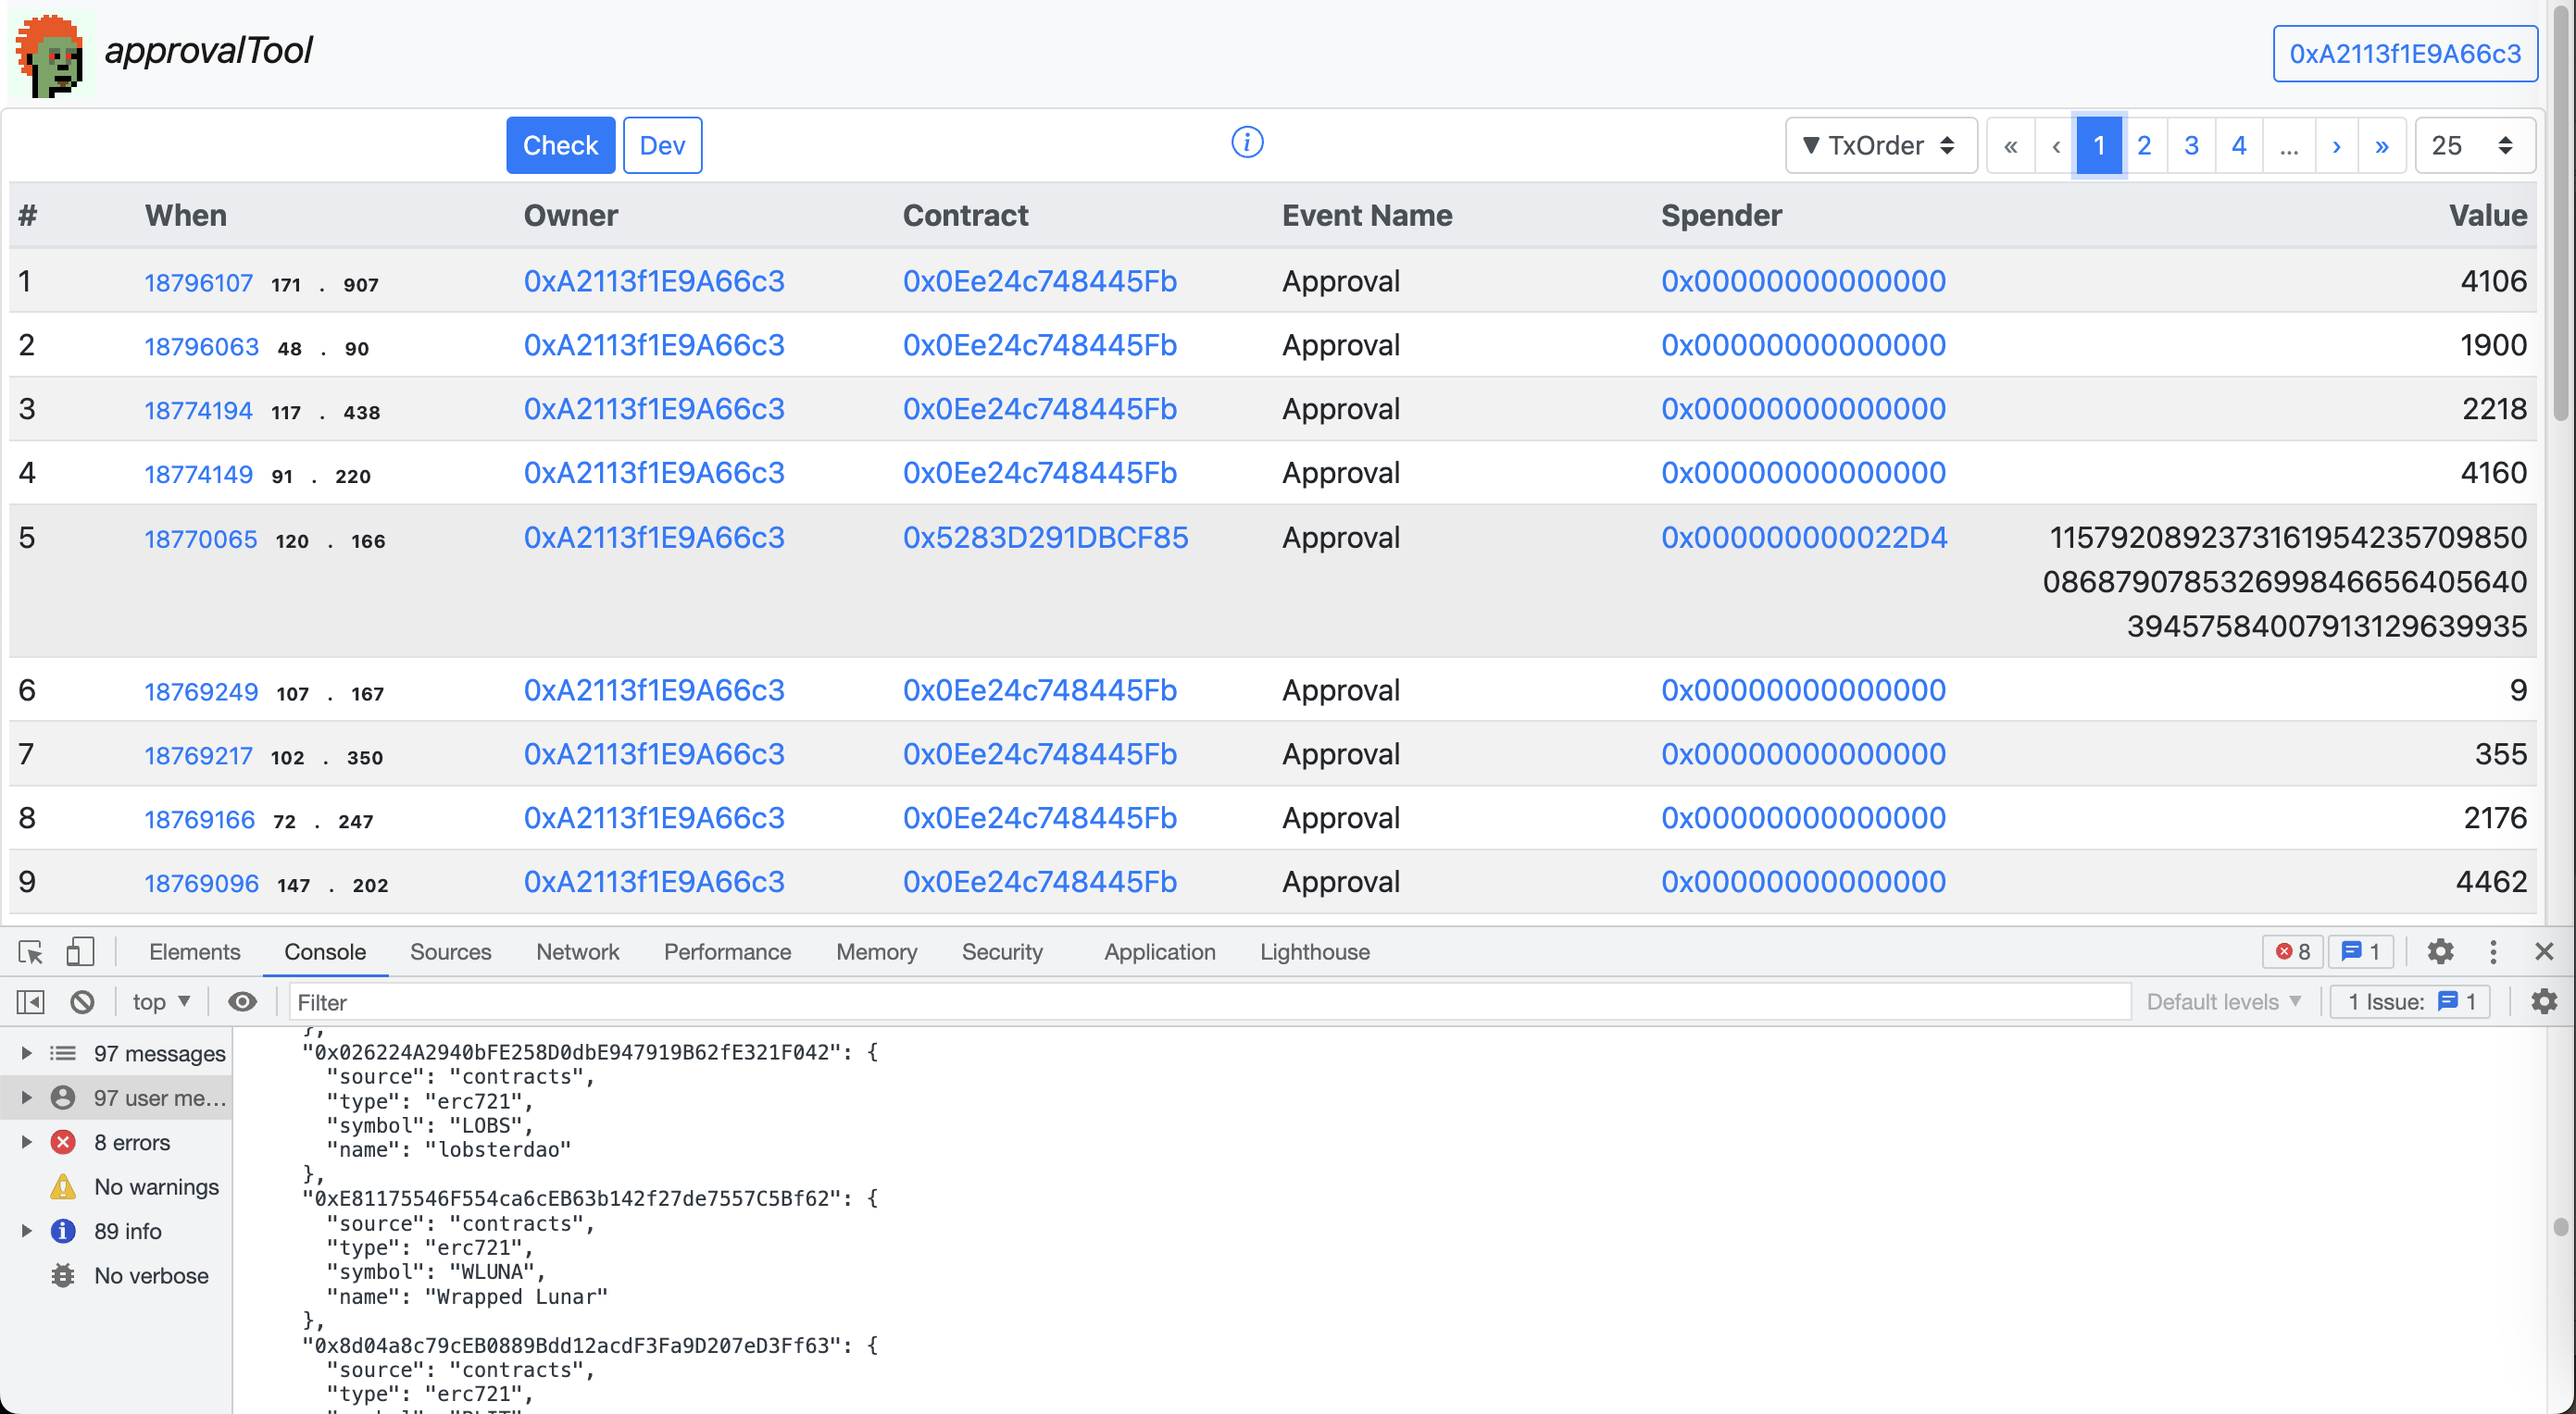
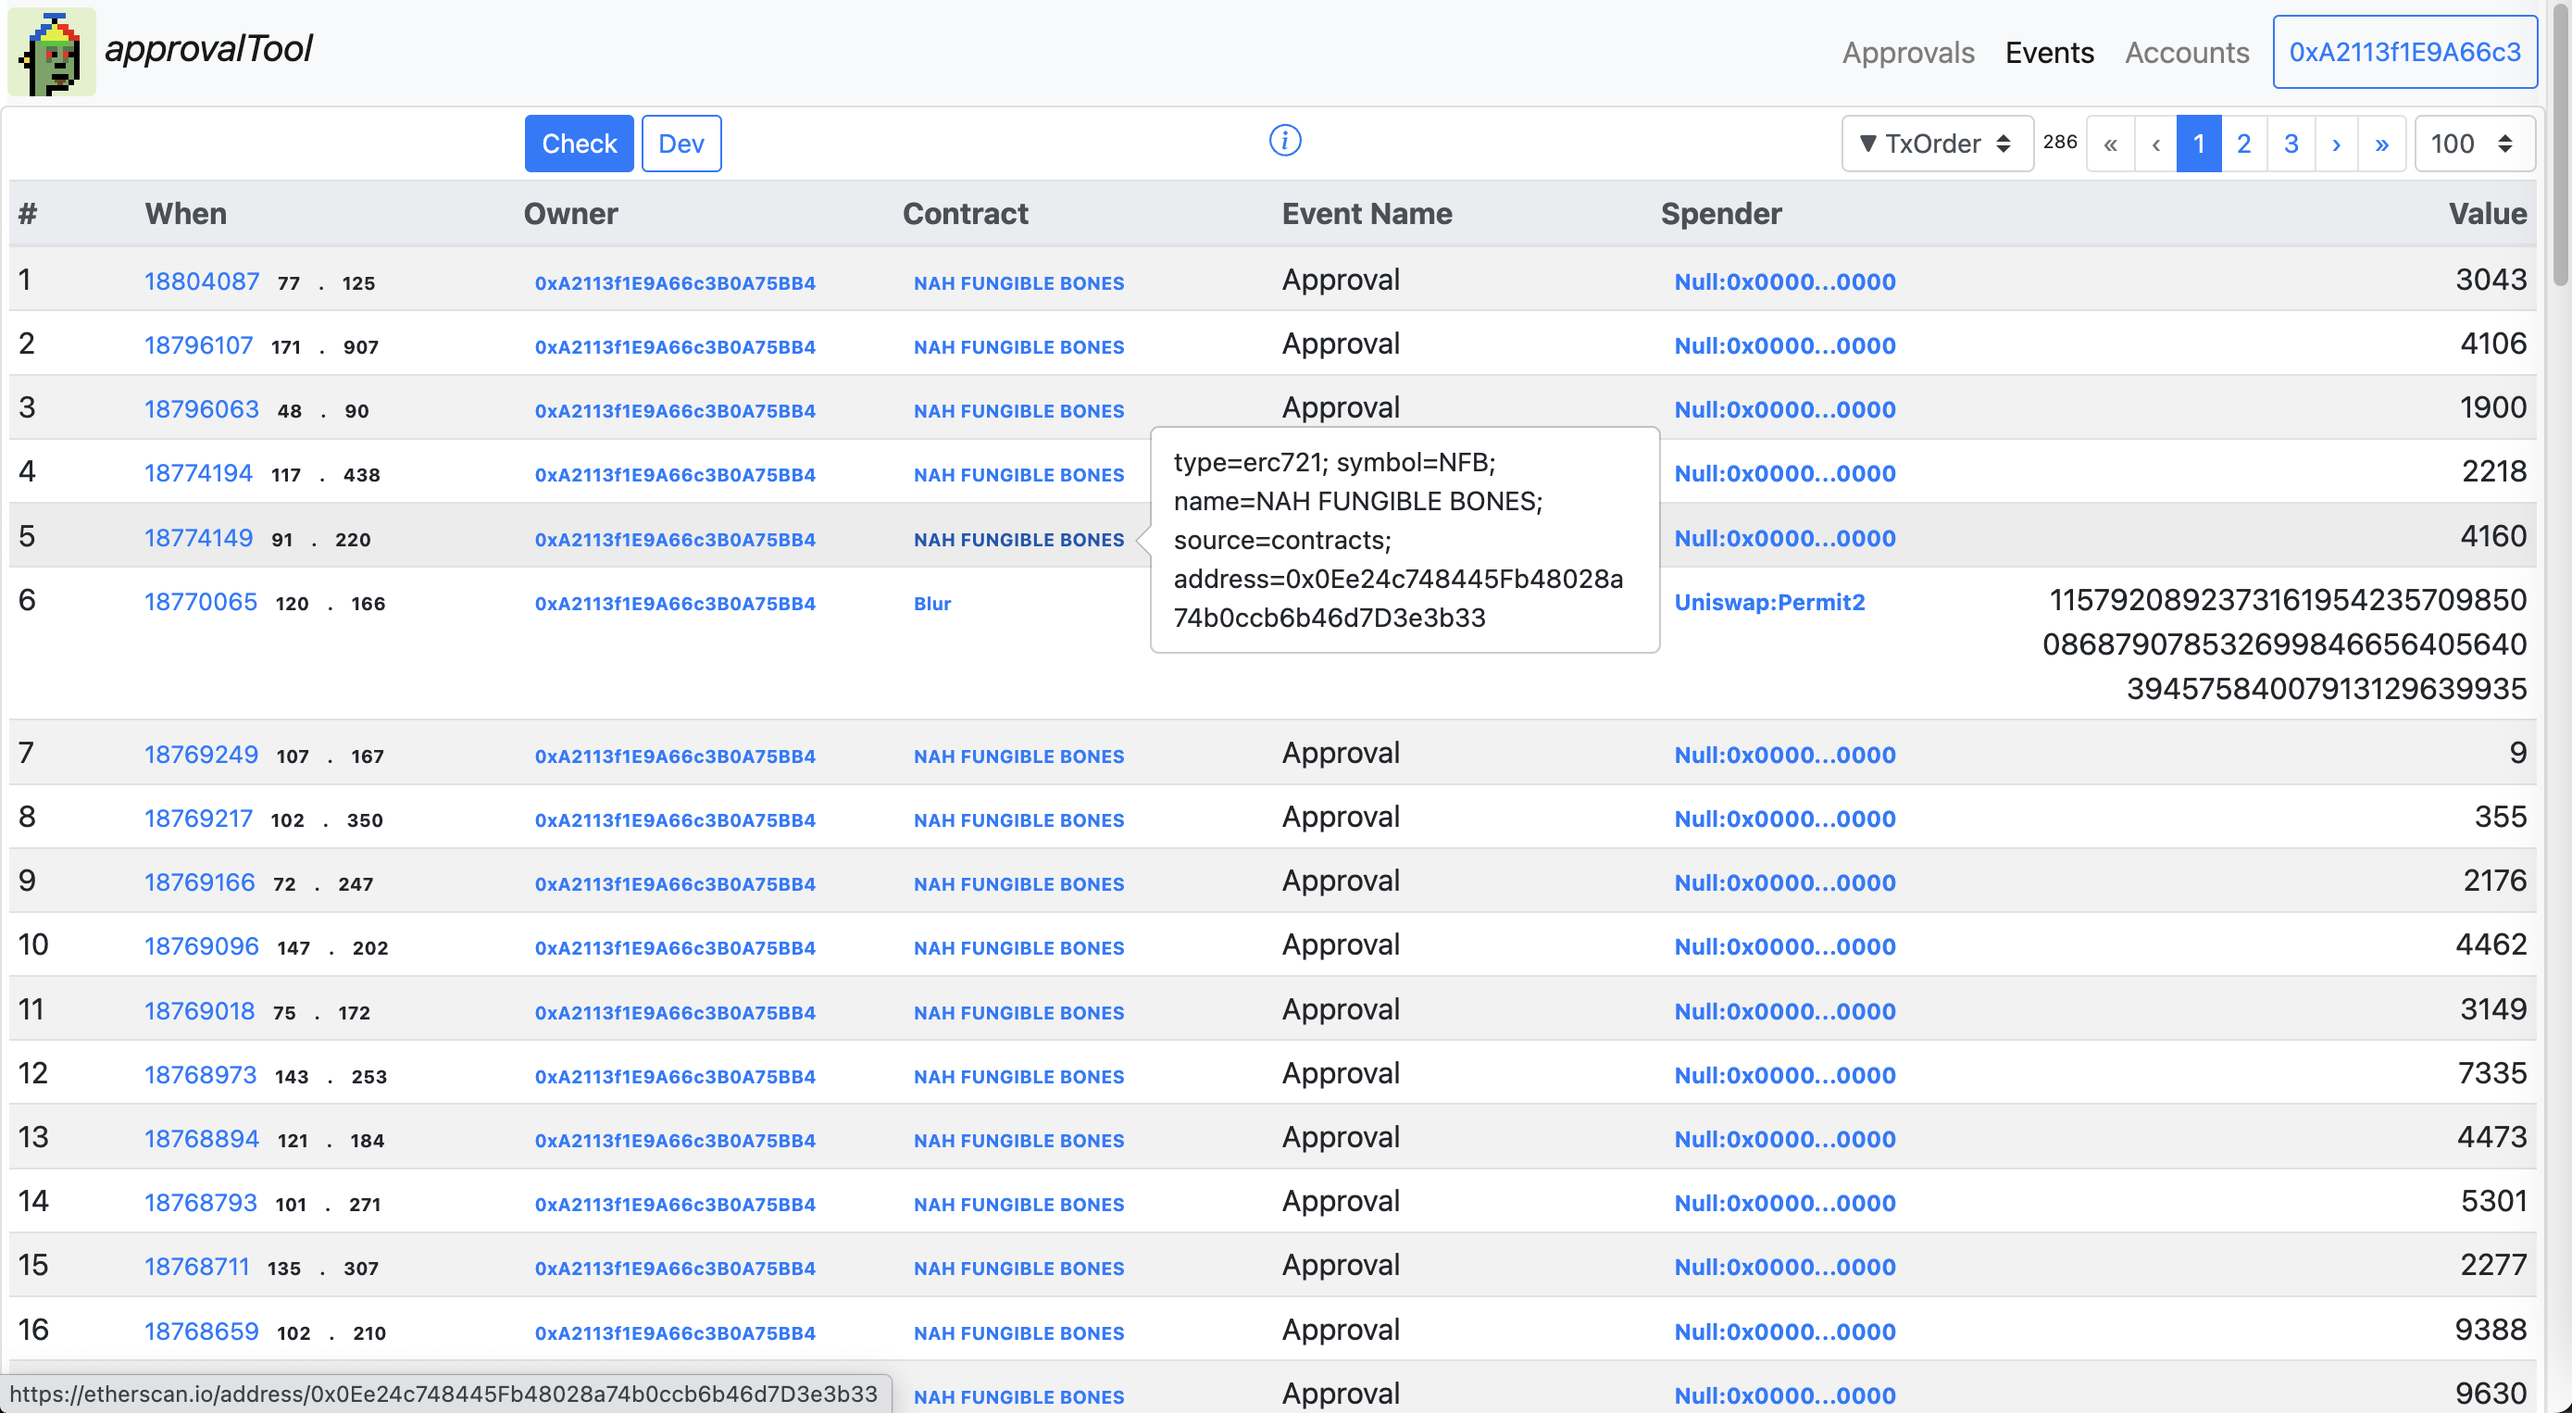
wip

diff --git a/docs/index.html b/docs/index.html
@@ -439,18 +439,22 @@
                   </font>
                 </template>
                 <template #cell(owner)="data">
-                  <b-link :href="'https://etherscan.io/address/' + data.item.owner" v-b-popover.hover.bottom="'View in etherscan.io'" target="_blank">
-                    {{ nameOrAddress(data.item.owner, 16) }}
-                  </b-link>
+                  <font size="-1">
+                    <b-link :href="'https://etherscan.io/address/' + data.item.owner" target="_blank">
+                      <b-badge pill variant="transparent" v-b-popover.hover="addressDescription(data.item.owner)">{{ nameOrAddress(data.item.owner, 24) }}</b-badge>
+                    </b-link>
+                  </font>
                 </template>
                 <template #cell(contract)="data">
-                  <b-link :href="'https://etherscan.io/address/' + data.item.contract" v-b-popover.hover.bottom="'View in etherscan.io'" target="_blank">
-                    {{ nameOrAddress(data.item.contract, 16) }}
-                  </b-link>
+                  <font size="-1">
+                    <b-link :href="'https://etherscan.io/address/' + data.item.contract" target="_blank">
+                      <b-badge pill variant="transparent" v-b-popover.hover="addressDescription(data.item.contract)">{{ nameOrAddress(data.item.contract, 32) }}</b-badge>
+                    </b-link>
+                  </font>
                 </template>
                 <template #cell(spender)="data">
-                  <b-link :href="'https://etherscan.io/address/' + data.item.spender" v-b-popover.hover.bottom="'View in etherscan.io'" target="_blank">
-                    {{ nameOrAddress(data.item.spender, 16) }}
+                  <b-link :href="'https://etherscan.io/address/' + data.item.spender" target="_blank">
+                    <b-badge pill variant="transparent" v-b-popover.hover="addressDescription(data.item.spender)">{{ nameOrAddress(data.item.spender, 32) }}</b-badge>
                   </b-link>
                 </template>
               </b-table>
@@ -1014,8 +1018,8 @@
                 }
               }
             }
-
-
+            localStorage.approvalAccounts = JSON.stringify(accounts);
+            Vue.set(this, 'accounts', accounts);
             console.log("accounts: " + JSON.stringify(accounts, null, 2));
           },
 
@@ -1530,20 +1534,28 @@
           nameOrAddress(addressOrAddressIndex, length = 0) {
             let result = null;
             if (new RegExp('^[0-9,]+$').test(addressOrAddressIndex)) {
-              if (addressOrAddressIndex in this.indexToAddressName) {
-                result = this.indexToAddressName[addressOrAddressIndex];
+              if (addressOrAddressIndex in this.accounts) {
+                result = this.accounts[addressOrAddressIndex] && this.accounts[addressOrAddressIndex].symbol || "error";
               } else {
                 result = this.indexToAddress[addressOrAddressIndex];
               }
             } else {
-              if (addressOrAddressIndex in this.addressToIndex) {
-                result = this.indexToAddressName[this.addressToIndex[addressOrAddressIndex]] || addressOrAddressIndex;
+              if (addressOrAddressIndex in this.accounts) {
+                result = this.accounts[addressOrAddressIndex].name || addressOrAddressIndex;
               } else {
                 result = addressOrAddressIndex;
               }
             }
             if (result && length > 0) {
               result = result.substring(0, length);
+            }
+            return result;
+          },
+          addressDescription(address) {
+            if (address in this.accounts) {
+              result = "type=" + this.accounts[address].type + "; symbol=" + this.accounts[address].symbol + "; name=" + this.accounts[address].name + "; source=" + this.accounts[address].source + "; address=" + address;
+            } else {
+              result = address;
             }
             return result;
           },
@@ -1702,6 +1714,11 @@
           if ('approvalEvents' in localStorage) {
             const tempEvents = JSON.parse(localStorage.approvalEvents);
             this.events = tempEvents;
+          }
+          if ('approvalAccounts' in localStorage) {
+            const tempAccounts = JSON.parse(localStorage.approvalAccounts);
+            this.accounts = tempAccounts;
+            console.log("accounts: " + JSON.stringify(this.accounts, null, 2));
           }
           (async() => {
             const db = new Dexie(this.db.name);
